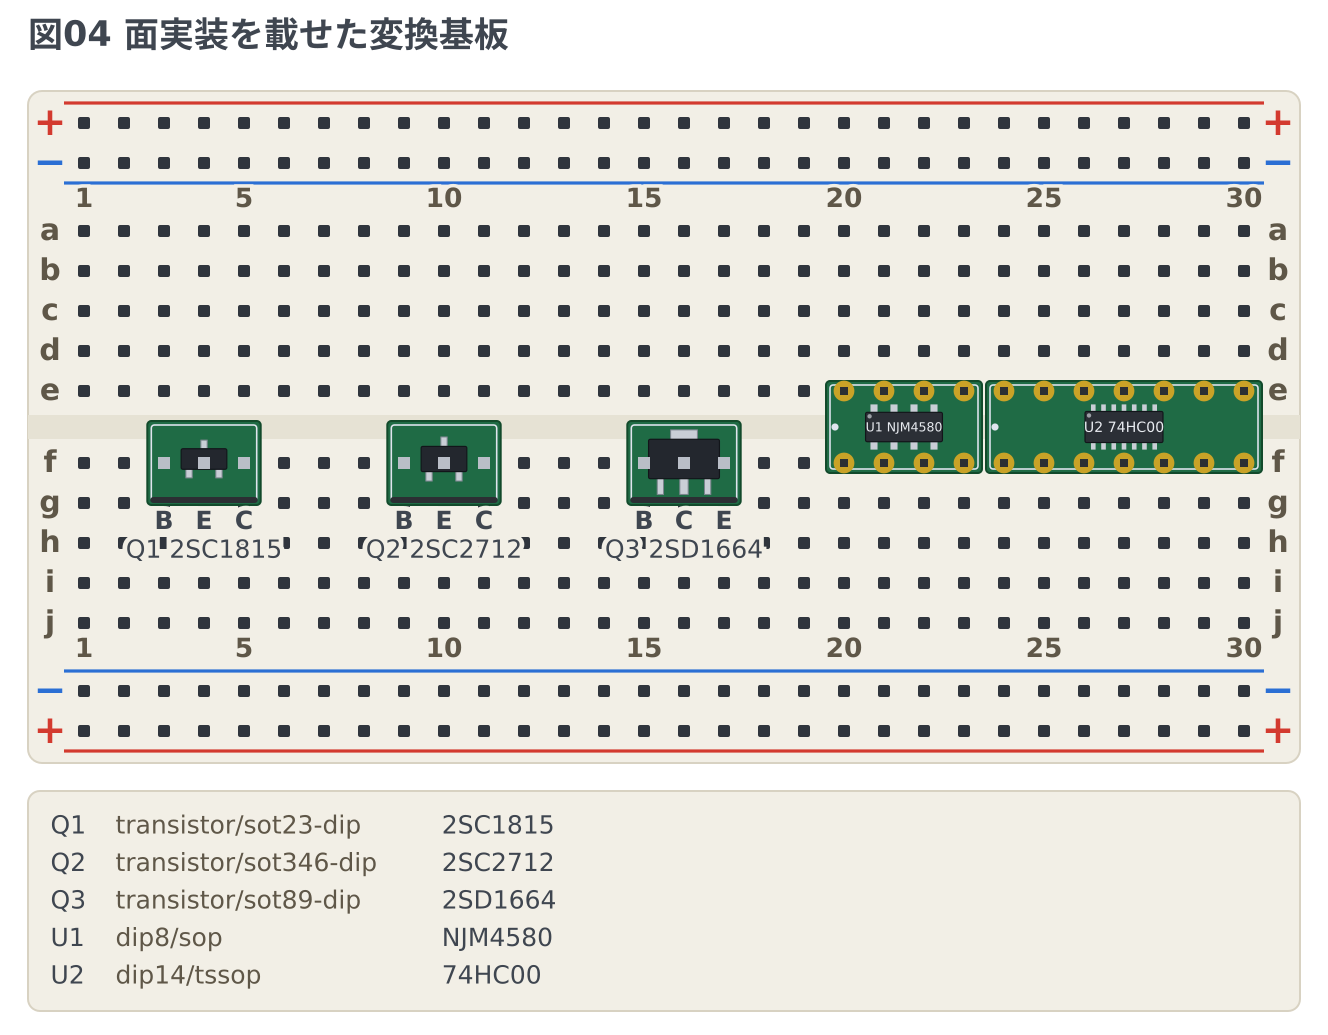
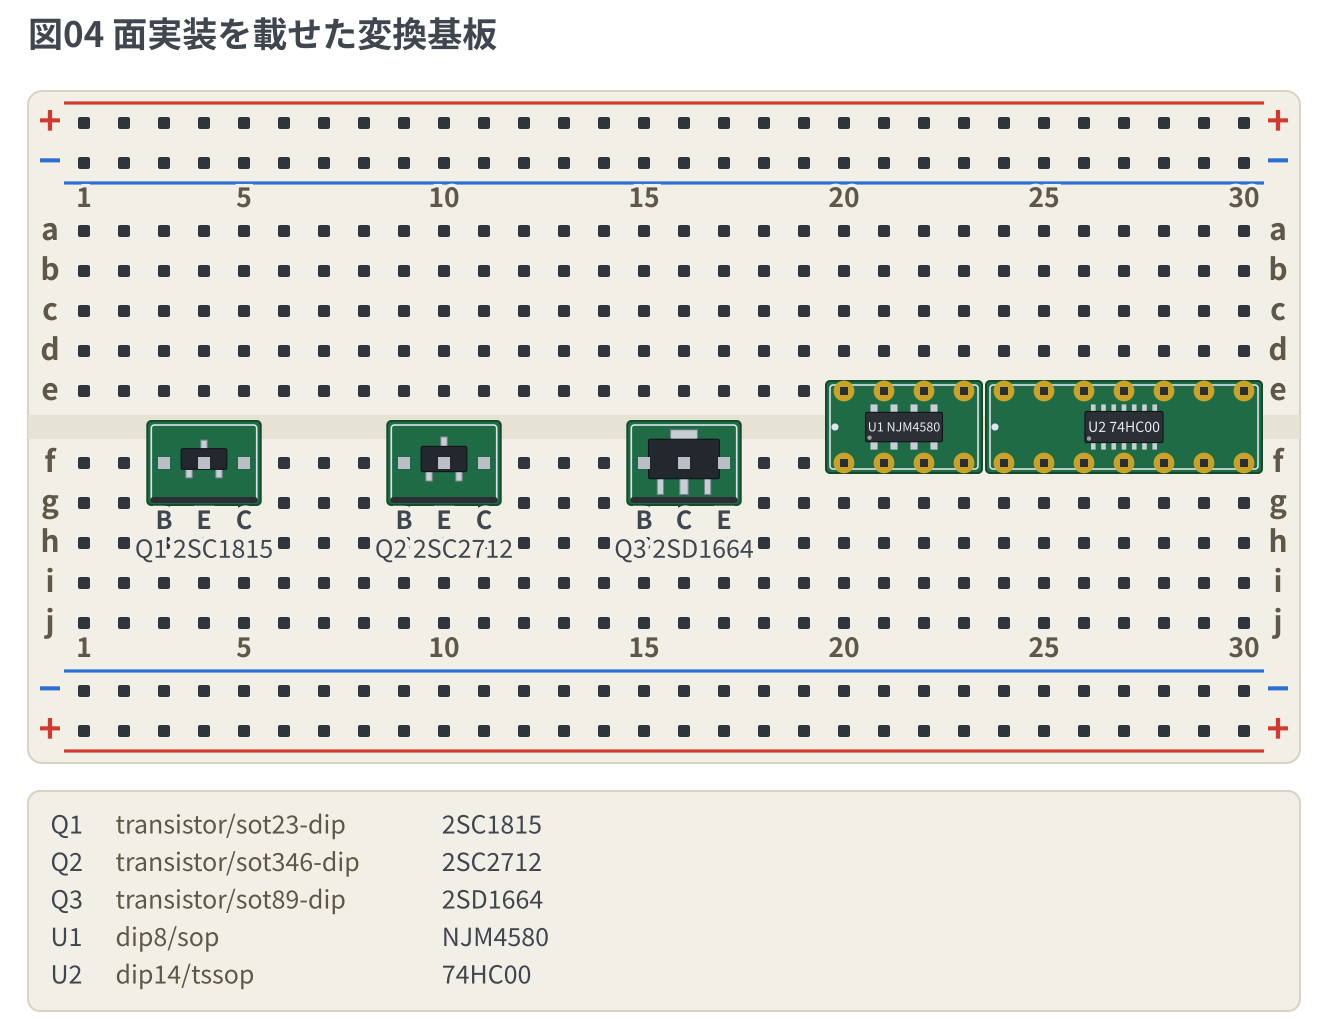
fix(breadboard-fence): DIP の足の番号を実物を上から見た並びにする
上のブロック (`@ e5`) に置いた DIP・名前付き DIP・マイコンボードは 1 番が左上に
来て、上から見て時計回り (実物の鏡像) に並んでいた。1 番を切り欠き側の下の列に
置き、反時計回りに数える。アンカーは胴の左端の列を決めるだけで、e でも f でも
同じ向きに挿さる。下のブロックの図は変わらない。

- エディターの裏返し (X) は 2 列の形を断る (実物は裏返して挿せない)
- 例 10 は配線を上下に写し、ネットリストが元と同じ回路になることを確かめた
- 文法リファレンス・早見表・README・例の本文を新しい決まりに直した

🤖 Generated with [Claude Code](https://claude.com/claude-code)

diff --git a/packages/breadboard-fence/src/core/placement/place.ts b/packages/breadboard-fence/src/core/placement/place.ts
@@ -375,29 +375,45 @@ const rightEdge = (spec: PartSpec, board: Board, lastCol: number): FenceError | 
     : null;
 
 /**
- * 溝をまたいで 2 列に並ぶピンを穴に落とす。ピン 1 から anchor の行を右へ進み、
- * 折り返して opposite の行を左へ戻る (実物のピン番号の回り方そのまま)。
+ * 穴の行の、板の上での位置 (ピッチ単位)。**溝は 3 ピッチぶん** — e と f の間が
+ * 0.3 インチで、DIP がちょうどまたぐ。
  */
+const ROW_POSITION: Readonly<Record<HoleRow, number>> = {
+  a: 0, b: 1, c: 2, d: 3, e: 4, f: 7, g: 8, h: 9, i: 10, j: 11,
+};
+
 /**
  * **`r180` は名前を半周ずらす。** 穴は動かない — 2 列は溝をまたいで
  * e 行と f 行に固定されているので、回しても部品が覆う升は同じ。変わるのは
  * **どの升が 1 番ピンか**で、それは升の並びを一周とみなして半分だけ送るのと同じ
- * (並びを逆にすると裏返しになってしまう。裏返しは行を書くほうで言う)。
+ * (並びを逆にすると裏返しになる。実物の IC は裏返して挿せないので、書き方も無い)。
  */
 const spun = (names: readonly string[], turn: Turn): readonly string[] =>
   (turn.rotate === 0 ? names : [...names.slice(names.length / 2), ...names.slice(0, names.length / 2)]);
 
+/**
+ * 溝をまたいで 2 列に並ぶピンを穴に落とす。**実物を上から見た並び** — 切り欠きを
+ * 左にすると 1 番は左下で、下の列を右へ進み、折り返して上の列を左へ戻る
+ * (反時計回り)。**アンカーは胴の置き場 (左端の列) を決めるだけ**で、溝の上下の
+ * どちらの行に書いても同じ向きに挿さる。
+ *
+ * 以前は 1 番をアンカーの行に置いていて、上のブロックに書くと 1 番が左上に来た
+ * — 実物を裏から見た形 (鏡像) で、どう挿しても作れない (52 の docs/71)。
+ */
 function dualRowPins(anchor: HoleAddress, oppositeRow: HoleRow, names: readonly string[]): PlacedPin[] {
   const half = names.length / 2;
+  const anchorBelow = ROW_POSITION[anchor.row] > ROW_POSITION[oppositeRow];
+  const lower = anchorBelow ? anchor.row : oppositeRow;
+  const upper = anchorBelow ? oppositeRow : anchor.row;
   return names.map((name, index) => {
     const pin = index + 1;
-    const onAnchorRow = pin <= half;
+    const onLowerRow = pin <= half;
     return {
       name,
       address: {
         kind: 'hole',
-        row: onAnchorRow ? anchor.row : oppositeRow,
-        col: onAnchorRow ? anchor.col + pin - 1 : anchor.col + (names.length - pin),
+        row: onLowerRow ? lower : upper,
+        col: onLowerRow ? anchor.col + pin - 1 : anchor.col + (names.length - pin),
       } satisfies Address,
     };
   });
@@ -423,19 +439,8 @@ function placeDip(spec: PartSpec, board: Board, base: PartBase, pinCount: number
   });
 }
 
-/**
- * 穴の行の、板の上での位置 (ピッチ単位)。**溝は 3 ピッチぶん** — e と f の間が
- * 0.3 インチで、DIP がちょうどまたぐ。
- */
-const ROW_POSITION: Readonly<Record<HoleRow, number>> = {
-  a: 0, b: 1, c: 2, d: 3, e: 4, f: 7, g: 8, h: 9, i: 10, j: 11,
-};
-
-/**
- * その行から、溝の向こうへ `span` ピッチ先の行。届かなければ null。
- * 置くとき (`placeNamed`) と、エディターで裏返すとき (`edit/turn.ts`) が同じ行を引く。
- */
-export function acrossGap(row: HoleRow, span: number): HoleRow | null {
+/** その行から、溝の向こうへ `span` ピッチ先の行。届かなければ null。 */
+function acrossGap(row: HoleRow, span: number): HoleRow | null {
   const upper = ROW_POSITION[row] < ROW_POSITION.f;
   const wanted = ROW_POSITION[row] + (upper ? span : -span);
   const found = HOLE_ROWS.find((one) => ROW_POSITION[one] === wanted && (ROW_POSITION[one] < ROW_POSITION.f) !== upper);
@@ -444,7 +449,7 @@ export function acrossGap(row: HoleRow, span: number): HoleRow | null {
 
 /**
  * 足に名前のある DIP 型 (リレー・フォトカプラ・7 セグ)。**DIP と同じ並べ方**で、
- * 列の間は表の穴数、足があるのは表の位置だけ。1 番ピンの穴から、向かいの列は
+ * 列の間は表の穴数、足があるのは表の位置だけ。アンカーの行から、向かいの列は
  * 溝の向こうの `rowSpan` ピッチ先 (G5V-2 は e↔f、7 セグは b↔f 〜 e↔i)。
  */
 function placeNamed(spec: PartSpec, board: Board, base: PartBase, chip: NamedChip): Result<PlacedPart> {

diff --git a/packages/breadboard-fence/src/core/placement/place.test.ts b/packages/breadboard-fence/src/core/placement/place.test.ts
@@ -31,20 +31,24 @@ const pinMap = (part: { pins: readonly { name: string; address: unknown }[] }) =
   Object.fromEntries(part.pins.map((pin) => [pin.name, pin.address ? formatAddress(pin.address as never) : null]));
 
 describe('placeParts', () => {
-  test('resolves dip8 anchored at e5 to pins straddling the ravine', () => {
+  test('numbers the pins the way the real chip does seen from above: pin 1 bottom left, counter-clockwise', () => {
+    // 切り欠きを左にした DIP を上から見ると、1 番は左下 (f 行)、1〜4 が下の列を右へ、
+    // 5〜8 が上の列を左へ戻る (52 の docs/71)。以前は 1 番が e5 で、実物の鏡像だった。
     const { parts, errors } = placeParts([spec({ id: 'U1', type: 'dip8', holes: holes('e5') })], board);
 
     expect(errors).toEqual([]);
     expect(pinMap(parts[0]!)).toEqual({
-      '1': 'e5', '2': 'e6', '3': 'e7', '4': 'e8',
-      '5': 'f8', '6': 'f7', '7': 'f6', '8': 'f5',
+      '1': 'f5', '2': 'f6', '3': 'f7', '4': 'f8',
+      '5': 'e8', '6': 'e7', '7': 'e6', '8': 'e5',
     });
   });
 
-  test('mirrors the package when it is anchored in the bottom block', () => {
-    const { parts } = placeParts([spec({ id: 'U1', type: 'dip8', holes: holes('f5') })], board);
+  test('places the same chip whichever row of the pair the anchor names', () => {
+    // アンカーは胴の置き場 (左端の列) を決めるだけ。e5 でも f5 でも同じ 8 穴に同じ向きで挿さる。
+    const upper = placeParts([spec({ id: 'U1', type: 'dip8', holes: holes('e5') })], board);
+    const lower = placeParts([spec({ id: 'U1', type: 'dip8', holes: holes('f5') })], board);
 
-    expect(pinMap(parts[0]!)).toMatchObject({ '1': 'f5', '4': 'f8', '5': 'e8', '8': 'e5' });
+    expect(pinMap(lower.parts[0]!)).toEqual(pinMap(upper.parts[0]!));
   });
 
   test('reports a dip anchored in a row that does not touch the ravine', () => {
@@ -281,10 +285,12 @@ describe('placeParts', () => {
     expect(pinMap(parts[0]!)).toMatchObject({ GP0: 'h5', GP15: 'h24', GP16: 'c24', VBUS: 'c5' });
   });
 
-  test('flips the pico when it is anchored in the top block', () => {
+  test('puts the pico the same way when it is anchored in the top block', () => {
+    // USB を左にして上から見ると 1 番 (GP0) は左下 (52 の docs/71)。アンカーは置き場を
+    // 決めるだけなので、c5 に書いても h5 と同じ。以前は GP0 が c5 で、実物の鏡像だった。
     const { parts } = placeParts([spec({ id: 'MCU', type: 'pico2', holes: holes('c5') })], createBoard('full'));
 
-    expect(pinMap(parts[0]!)).toMatchObject({ GP0: 'c5', VBUS: 'h5' });
+    expect(pinMap(parts[0]!)).toMatchObject({ GP0: 'h5', VBUS: 'c5' });
   });
 
   test('labels a board with its product name when the fence does not', () => {
@@ -483,15 +489,16 @@ describe('向き (r180)', () => {
     return pin?.address === null || pin === undefined ? '' : formatAddress(pin.address);
   };
 
-  test('moves pin 1 to the far end of the other row, which no anchor can say', () => {
+  test('moves pin 1 to the top right, the chip turned round with its notch on the right', () => {
     // 溝をまたぐので升は同じ (e/f 行 × 同じ 4 列)。変わるのは**どの升が 1 番か**。
-    // `@ f5` で言えるのは「1 番が f 行の左端」までで、右端は言えない。
+    // 回しても上から見て反時計回りのまま (1 番が右上、1〜4 が上の列を左へ)。
     const { parts } = placeParts([spec({
       id: 'U1', type: 'dip8', holes: [{ addr: 'e5', tag: '1', tagged: true, written: 'e5' }], turn: { rotate: 180, mirror: false },
     })], board);
 
-    expect(at(parts[0]!, '1')).toBe('f8');
-    expect(at(parts[0]!, '5')).toBe('e5');
+    expect(at(parts[0]!, '1')).toBe('e8');
+    expect(at(parts[0]!, '4')).toBe('e5');
+    expect(at(parts[0]!, '5')).toBe('f5');
   });
 
   test('covers exactly the same holes as before, since the part did not move', () => {

diff --git a/packages/breadboard-fence/src/core/edit/turn.ts b/packages/breadboard-fence/src/core/edit/turn.ts
@@ -8,7 +8,6 @@ import type { Address, Board, HoleRow, RailRow } from '../types.ts';
 import { diffAfter } from './diff.ts';
 import { TURN_WORD, isTurned, orientOf } from '../parts/orient.ts';
 import { lookupFootprint } from '../placement/footprints.ts';
-import { acrossGap } from '../placement/place.ts';
 import { isLocated, locatePart } from './move.ts';
 import type { Located, MoveResult } from './move.ts';
 import { locateTokens } from './shared.ts';
@@ -188,45 +187,16 @@ function turnByWord(source: string, found: Located, id: string): MoveResult {
 }
 
 /**
- * 溝の向こう側の行。**そこへ書き直したものが「裏返し」**。
- * 1 列に並ぶ形 (SIP) には向こう側が無い。足に名前のある DIP 型は、列の間の
- * 穴数 (`rowSpan`) だけ溝の向こうの行 (7 セグは b↔f 〜 e↔i)。
+ * アンカー 1 つで置く形は**どれも裏返せない**。1 列に並ぶ形 (SIP) は裏返しても
+ * 同じ穴に同じ順で挿さる。2 列の形 (DIP・名前付き DIP・マイコンボード) は、
+ * 実物を裏返して挿すことができない — 以前はアンカーを溝の向こうの行へ書き直して
+ * いたが、それは実物の鏡像を描いていただけだった (52 の docs/71)。向きは回して変える。
  */
-function flippedRow(type: string, row: HoleRow): HoleRow | null {
-  const footprint = lookupFootprint(type);
-  if (footprint?.kind === 'dip') return row === 'e' ? 'f' : 'e';
-  if (footprint?.kind === 'named') return acrossGap(row, footprint.chip.rowSpan);
-  if (footprint?.kind !== 'board') return null;
-  return HOLE_ROWS[(HOLE_ROWS.indexOf(row) + HOLE_ROWS.length / 2) % HOLE_ROWS.length] ?? null;
-}
-
-/** アンカーを溝の向こう側の行へ書き直す (`@ e5` → `@ f5`)。 */
-function flipByAnchor(source: string, found: Located, id: string): MoveResult {
-  const anchor = found.addresses[0];
-  const located = locateTokens(found.line, found.addresses, found.points);
-  const token = located?.tokens[0];
-  if (anchor === undefined || token === undefined) {
-    return fail(`${safeToken(id)} の穴を行の中に見つけられませんでした`, found.part.line);
-  }
-  if (anchor.kind !== 'hole') {
-    return fail(`${safeToken(id)} はレールに挿さっているので裏返せません`, found.part.line);
-  }
-
-  const row = flippedRow(found.part.type, anchor.row);
-  if (row === null) {
-    return fail(
-      `${safeToken(id)} は裏返せません (1 列に並ぶので、裏返しても同じ穴に同じ順で挿さります)`,
-      found.part.line,
-    );
-  }
-
-  const edits: readonly Edit[] = [{
-    line: found.part.line,
-    column: token.column,
-    length: token.length,
-    text: formatAddress({ kind: 'hole', row, col: anchor.col }),
-  }];
-  return { ok: true, value: { edits, diff: diffAfter(source, edits) } };
+function flipByAnchor(found: Located, id: string): MoveResult {
+  const reason = lookupFootprint(found.part.type)?.kind === 'sip'
+    ? '1 列に並ぶので、裏返しても同じ穴に同じ順で挿さります'
+    : '実物の IC やボードは裏返して挿せません。向きを変えるなら回します';
+  return fail(`${safeToken(id)} は裏返せません (${reason})`, found.part.line);
 }
 
 
@@ -367,7 +337,7 @@ export function turnPart(
 
 export function flipPart(source: string, id: string): MoveResult {
   const anchored = anchoredTurn(source, id);
-  if (anchored !== null) return flipByAnchor(source, anchored, id);
+  if (anchored !== null) return flipByAnchor(anchored, id);
 
   const grabbed = writtenLeadsAt(source, id, '反転');
   if (!grabbed.ok) return { ok: false, error: grabbed.error };

diff --git a/packages/breadboard-fence/src/core/edit/turn.test.ts b/packages/breadboard-fence/src/core/edit/turn.test.ts
@@ -194,24 +194,24 @@ describe('アンカー 1 つで置く形 (DIP / SIP / ボード)', () => {
     expect(result.ok && result.value.edits).toEqual([]);
   });
 
-  test('flips by moving the anchor across the ravine, not by writing mirror', () => {
-    // 裏返した形は `@ f5` そのもの。語を足すと同じ置き方が 2 通りになる。
-    expect(after(DIP, flipPart(DIP, 'U1'))).toContain('U1: dip8 @ f5 NJM4556A');
+  test('refuses to flip a DIP, which cannot go into a board upside down', () => {
+    // 実物の IC は裏返して挿せない。アンカーを溝の向こうの行へ書き直しても、
+    // 同じ 8 穴に同じ向きで挿さるだけ (52 の docs/71)。向きは回す (R) で変える。
+    const result = flipPart(DIP, 'U1');
+
+    expect(result.ok).toBe(false);
+    expect(result.ok ? '' : result.error.message).toContain('回');
   });
 
-  test('flips a named chip to the other row of its own footprint', () => {
-    // リレーは DIP と同じ e↔f。7 セグは列の間が 6 穴なので b↔f (溝の向こうの 6 ピッチ先)。
-    const relay = 'board: half\nparts:\n  K1: relay @ e5\n';
-    const display = 'board: half\nparts:\n  DS1: seg7 @ b5 5161AS\n';
-
-    expect(after(relay, flipPart(relay, 'K1'))).toContain('K1: relay @ f5');
-    expect(after(display, flipPart(display, 'DS1'))).toContain('DS1: seg7 @ f5 5161AS');
-  });
-
-  test('flips a board to the paired row on the other block', () => {
-    const pico = 'board: full\nparts:\n  M1: pico @ h5\n';
-
-    expect(after(pico, flipPart(pico, 'M1'))).toContain('M1: pico @ c5');
+  test('refuses to flip a named chip or a board, for the same reason as a DIP', () => {
+    for (const source of [
+      'board: half\nparts:\n  K1: relay @ e5\n',
+      'board: half\nparts:\n  DS1: seg7 @ b5 5161AS\n',
+      'board: full\nparts:\n  M1: pico @ h5\n',
+    ]) {
+      const id = /^ {2}(\w+):/m.exec(source)?.[1] ?? '';
+      expect(flipPart(source, id).ok, id).toBe(false);
+    }
   });
 
   test('refuses to flip a single row part, which would land on the same holes', () => {

diff --git a/packages/breadboard-fence/src/core/namedChips.test.ts b/packages/breadboard-fence/src/core/namedChips.test.ts
@@ -47,10 +47,11 @@ describe('置き方', () => {
 
     expect(errors).toEqual([]);
     expect(pins.map((pin) => pin.name)).toEqual(['A1', 'COM1', 'NC1', 'NO1', 'NO2', 'NC2', 'COM2', 'A2']);
-    expect(holeOf(pins, 'A1')).toBe('e5');
-    expect(holeOf(pins, 'NO1')).toBe('e12');
-    expect(holeOf(pins, 'NO2')).toBe('f12');
-    expect(holeOf(pins, 'A2')).toBe('f5');
+    // 実物を上から見た並び: 1 番 (A1) が左下、1〜8 の位置が下の列を右へ、9〜16 が上の列を左へ。
+    expect(holeOf(pins, 'A1')).toBe('f5');
+    expect(holeOf(pins, 'NO1')).toBe('f12');
+    expect(holeOf(pins, 'NO2')).toBe('e12');
+    expect(holeOf(pins, 'A2')).toBe('e5');
   });
 
   test('lets a wire say K1.COM1 and lists the pins by name', () => {
@@ -70,10 +71,11 @@ describe('置き方', () => {
     const { errors, pins } = placed('DS1: seg7 @ b5');
 
     expect(errors).toEqual([]);
-    expect(holeOf(pins, 'e')).toBe('b5');
-    expect(holeOf(pins, 'dp')).toBe('b9');
-    expect(holeOf(pins, 'b')).toBe('f9');
-    expect(holeOf(pins, 'g')).toBe('f5');
+    // 1〜5 (e d COM1 c dp) が下の列 (f)、6〜10 (b a COM2 f g) が上の列 (b)。
+    expect(holeOf(pins, 'e')).toBe('f5');
+    expect(holeOf(pins, 'dp')).toBe('f9');
+    expect(holeOf(pins, 'b')).toBe('b9');
+    expect(holeOf(pins, 'g')).toBe('b5');
   });
 
   test('says which rows fit when the gap cannot be spanned from there', () => {
@@ -87,9 +89,10 @@ describe('置き方', () => {
     const { errors, pins } = placed('K1: relay @ e5 r180');
 
     expect(errors).toEqual([]);
-    expect(holeOf(pins, 'NO2')).toBe('e5');
-    expect(holeOf(pins, 'A1')).toBe('f12');
-    expect(holeOf(pins, 'A2')).toBe('e12');
+    expect(holeOf(pins, 'A1')).toBe('e12');
+    expect(holeOf(pins, 'NO1')).toBe('e5');
+    expect(holeOf(pins, 'NO2')).toBe('f5');
+    expect(holeOf(pins, 'A2')).toBe('f12');
   });
 
   test('shows the part name in the drawing when nothing else is written', () => {

diff --git a/packages/breadboard-fence/src/core/parser/compact.test.ts b/packages/breadboard-fence/src/core/parser/compact.test.ts
@@ -234,11 +234,11 @@ describe('向きの語 (アンカー 1 つで置く形)', () => {
     expect(!result.ok && result.error.message).toContain('同じ 5 穴');
   });
 
-  test('refuses mirror, since the anchor row already says which side pin 1 is on', () => {
-    // 語を足すと `dip8 @ e5 mirror` と `dip8 @ f5` が同じ置き方の 2 通りになる。
+  test('refuses mirror, since a real chip cannot go in upside down', () => {
+    // 裏返した形は実物を裏から見た形で、どう挿しても作れない。向きは r180 で変える。
     const result = part('dip8 @ e5 mirror');
 
-    expect(!result.ok && result.error.message).toContain('反対の行');
+    expect(!result.ok && result.error.message).toContain('裏返して挿せません');
   });
 
   test('refuses a word on a part whose holes already say the direction', () => {

diff --git a/packages/breadboard-fence/src/core/edit/fenceEditor.test.ts b/packages/breadboard-fence/src/core/edit/fenceEditor.test.ts
@@ -120,11 +120,12 @@ describe('殻が呼ぶ口 (FenceEditor)', () => {
     expect(result.ok && result.value.edits?.[0]?.text).toBe(' r180');
   });
 
-  test('flips it by moving the anchor across the ravine, which is what mirror means here', () => {
+  test('refuses to flip a DIP, since a real chip cannot go in upside down', () => {
+    // 以前はアンカーを溝の向こうへ書き直していたが、それは実物の鏡像だった (52 の docs/71)。
     const dip = 'board: half\nparts:\n  U1: dip8 @ e5 NE555\n';
     const result = editor.flip(dip, 'U1');
 
-    expect(result.ok && result.value.edits?.[0]?.text).toBe('f5');
+    expect(result.ok).toBe(false);
   });
 
   test('draws the band the map shows under the drawing', () => {

diff --git a/packages/breadboard-fence/src/core/edit/insert.test.ts b/packages/breadboard-fence/src/core/edit/insert.test.ts
@@ -273,7 +273,8 @@ describe('partCells', () => {
     expect(partCells(WITH_WIRES, 'R1')).toEqual(['a5', 'a10']);
 
     const dip = 'board: half\nparts:\n  U1: dip8 @ e5\n';
-    expect(partCells(dip, 'U1')).toEqual(['e5', 'e6', 'e7', 'e8', 'f8', 'f7', 'f6', 'f5']);
+    // 1 番ピンから順に (実物を上から見た並び。1 番は左下の f5)。
+    expect(partCells(dip, 'U1')).toEqual(['f5', 'f6', 'f7', 'f8', 'e8', 'e7', 'e6', 'e5']);
   });
 
   test('is empty for a part that is not there', () => {

diff --git a/packages/breadboard-fence/src/core/parts/orient.ts b/packages/breadboard-fence/src/core/parts/orient.ts
@@ -86,7 +86,7 @@ export function refusalFor(word: string, type: string): string | null {
 
   if (word === 'mirror') {
     return `${type} に mirror は書けません`
-      + ' (裏返した形はアンカーを反対の行に書いたものと同じです)';
+      + ' (実物は裏返して挿せません。向きを変えるなら r180 です)';
   }
   return kind === 'sip'
     ? `${type} は 90 度回せません (1 列に並ぶので、縦にすると足が全部同じ 5 穴に入ります)`

diff --git a/packages/breadboard-fence/README.md b/packages/breadboard-fence/README.md
@@ -183,7 +183,7 @@ npm pack   # builds, emits the type definitions, and makes breadboard-fence-<ver
 | Two-lead part | `ID: type hole hole value` | `R1: resistor a5 a10 10k` |
 | Polarity | Tag the hole with a pin name | `D1: led b12(A) b13(K) red` |
 | Three-lead part | One hole per leg | `Q1: transistor h9(B) h10(C) h11(E) 2SC1815` |
-| DIP | Write pin 1's hole; the rest follows | `U1: dip8 @ e5 NJM4556A` |
+| DIP | Write the hole of the body's leftmost column; the rest follows the real top view | `U1: dip8 @ e5 NJM4556A` |
 | Orientation | `r180` on a part placed by one anchor (pin 1 moves to the other end) | `U1: dip8 @ e5 r180` |
 | Off-board device | Map form with `type: device` | see the examples |
 | Wire | `- end -- end [-- end …] [colour]` | `- a10 -- b12 -- b20 red` |
@@ -191,7 +191,7 @@ npm pack   # builds, emits the type definitions, and makes breadboard-fence-<ver
 | Routing hint | A detour in brackets (20 = one hole) | `- j20 -- -b20 black [v-20]` |
 | Parts list | Printed under the drawing by default; write this to drop it | `parts-list: none` |
 | Pushbutton | Four legs across the ravine; write pin 1a's hole | `SW1: button @ e5` |
-| Microcontroller board | Write pin 1's hole; pin names match the silkscreen | `MCU: pico2 @ h5` |
+| Microcontroller board | Write the hole of the board's leftmost column; pin names match the silkscreen | `MCU: pico2 @ h5` |
 | Shorthand | Common types have a short spelling | `R1: r a5 a10 10k` |
 | Title | One line at the top left of the drawing | `title: 図01 LED を点ける` |
 | Note | Marks and text laid over the drawing | `- circle R1` |
@@ -239,7 +239,8 @@ swapping a spelling inside a line.
   named with the smallest free number for its prefix. **Turning (`R`) and
   flipping (`X`) rewrite different things depending on what you grabbed** — a part
   written as a row of holes moves its addresses, while one placed by a single
-  anchor gets its orientation word and its row rewritten
+  anchor gets its orientation word rewritten (a DIP or a board cannot go into the
+  board upside down, so flipping one is refused)
 - **Nothing stops you before the move.** It compares the netlist before and after
   and lists the connections the move broke and the ones it made. Holes in the
   same column are already connected, so sliding within one strip says nothing
